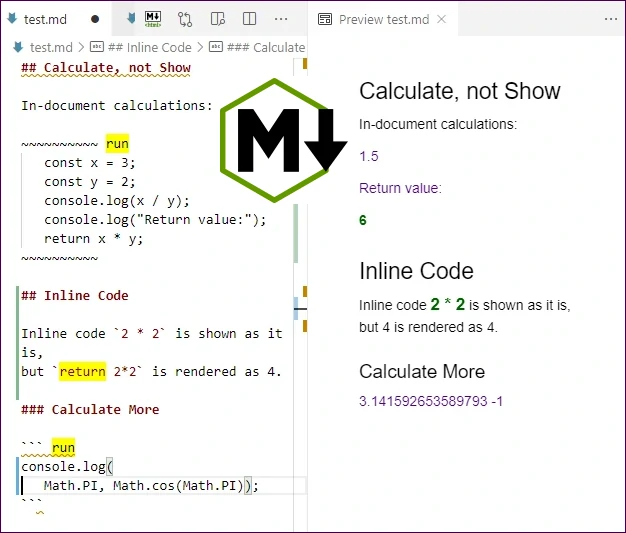
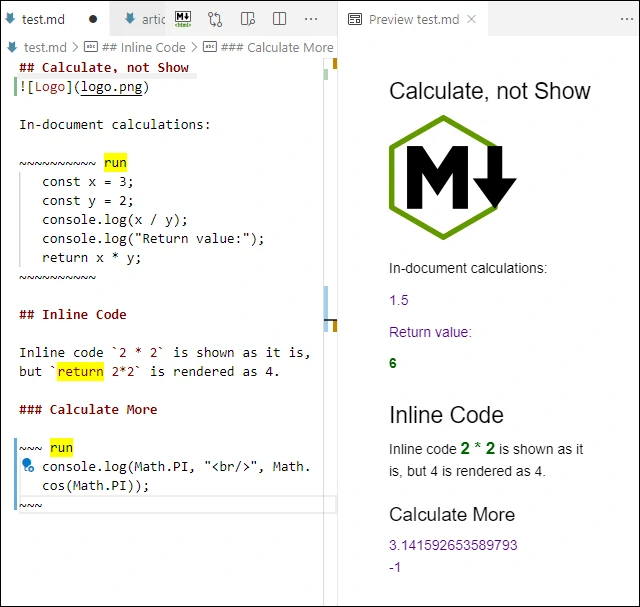
Article: improved new image

diff --git a/docs/article.md b/docs/article.md
@@ -20,7 +20,7 @@ It will force the fenced code to execute instead of rendering it. Put the keywor
 
 <ul class="download"><li><a href="5291705/Working/JavaScript-Playground.zip">Download source code — 23.4 KB</a></li></ul>
 
-![presentation.h](main.webp)
+![Sample](main.png)
 
 <blockquote id="epigraph" class="FQ"><div class="FQA">Epigraph:</div>
 <p><i>If you want to create something totally useless or ridiculous, take it very seriously.

diff --git a/docs/test.md b/docs/test.md
@@ -1,4 +1,5 @@
 ## Calculate, not Show
+![Logo](logo.png)
 
 In-document calculations:
 
@@ -16,6 +17,8 @@ Inline code `2 * 2` is shown as it is, but `return 2*2` is rendered as 4.
 
 ### Calculate More
 
-``` run
+```
+
    console.log(Math.PI, Math.cos(Math.PI));
+
 ```
